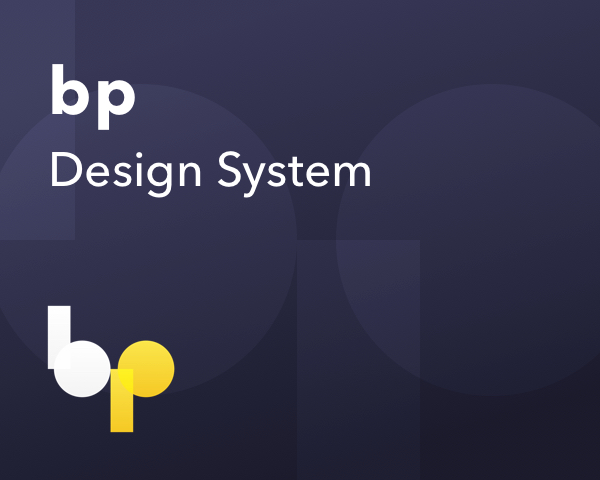
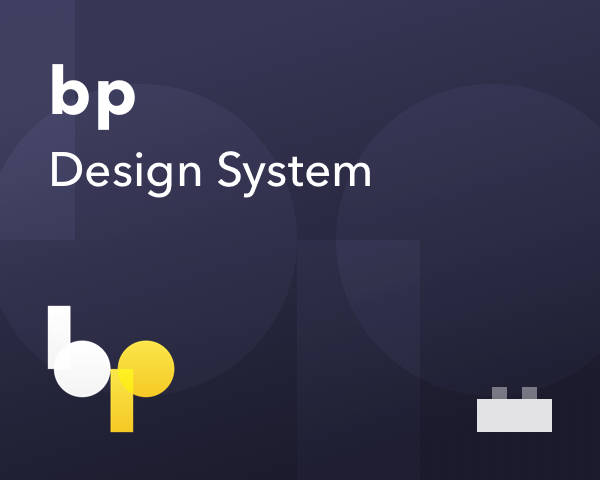
增加bp-design system  Layout条目

Changed region(s): [[0.78, 0.7812, 0.93, 0.9062]]

diff --git a/index.html b/index.html
@@ -1,161 +1,164 @@
 <!doctype html>
 <html lang="en">
 
-    <head>
-        <!-- Required meta tags -->
-        <meta charset="utf-8">
-        <meta name="viewport" content="width=device-width, initial-scale=1, shrink-to-fit=no">
+<head>
+    <!-- Required meta tags -->
+    <meta charset="utf-8">
+    <meta name="viewport" content="width=device-width, initial-scale=1, shrink-to-fit=no">
 
-        <!-- Bootstrap CSS -->
-        <link rel="stylesheet" href="https://stackpath.bootstrapcdn.com/bootstrap/4.3.1/css/bootstrap.min.css"
-            integrity="sha384-ggOyR0iXCbMQv3Xipma34MD+dH/1fQ784/j6cY/iJTQUOhcWr7x9JvoRxT2MZw1T" crossorigin="anonymous">
-        <link rel="stylesheet" href="./index.css">
-        <link rel="shortcut icon" href="./favicon.ico" type="image/x-icon">
-        <title>Pharbers Design</title>
-    </head>
+    <!-- Bootstrap CSS -->
+    <link rel="stylesheet" href="https://stackpath.bootstrapcdn.com/bootstrap/4.3.1/css/bootstrap.min.css"
+        integrity="sha384-ggOyR0iXCbMQv3Xipma34MD+dH/1fQ784/j6cY/iJTQUOhcWr7x9JvoRxT2MZw1T" crossorigin="anonymous">
+    <link rel="stylesheet" href="./index.css">
+    <link rel="shortcut icon" href="./favicon.ico" type="image/x-icon">
+    <title>Pharbers Design</title>
+</head>
 
-    <body>
-        <nav class="navbar navbar-expand-lg mb-4 navbar-light bg-light  justify-content-center">
-            <h1>Pharbers Design</h1>
-        </nav>
-        <section class="container mb-2">
-            <div class="card" style="width: 16rem;">
-                <img src="./public/img_thumbnails_ds.jpg" class="card-img-top" alt="components">
-                <div class="card-body">
-                    <h5 class="card-title">Components Design</h5>
-                    <p class="card-text">主要展示 pharbers company 的内部组件设计等，包含基础的颜色/字体/大小等，同时也有数据展示如表格等的组件。适用于 pharbers 项目.
-                    </p>
-                    <!-- <a href="#" class="btn btn-primary">查看</a> -->
-                    <div class="btn-group">
-                        <button type="button" class="btn btn-primary dropdown-toggle" data-toggle="dropdown"
-                            aria-haspopup="true" aria-expanded="false">
-                            查看
-                        </button>
-                        <div class="dropdown-menu">
-                            <a class="dropdown-item" href="./bp Design System/bpDS_General/index.html">General</a>
-                            <div class="dropdown-divider"></div>
-                            <a class="dropdown-item"
-                                href="./bp Design System/bpDS_Navigiation/index.html">Navigiation</a>
-                            <div class="dropdown-divider"></div>
-                            <a class="dropdown-item"
-                                href="./bp Design System/bpDS_Foundations/index.html">Foundations</a>
-                            <div class="dropdown-divider"></div>
-                            <a class="dropdown-item" href="./bp Design System/bpDS_Feedback/index.html">Feedback</a>
-                            <div class="dropdown-divider"></div>
-                            <a class="dropdown-item" href="./bp Design System/bpDS_DataEntry/index.html">DataEntry</a>
-                            <div class="dropdown-divider"></div>
-                            <a class="dropdown-item"
-                                href="./bp Design System/bpDS_DataDisplay/index.html">DataDisplay</a>
-                            <div class="dropdown-divider"></div>
-                            <a class="dropdown-item"
-                                href="./bp Design System/bpDS_Design Guideline/index.html">Guideline</a>
-                        </div>
+<body>
+    <nav class="navbar navbar-expand-lg mb-4 navbar-light bg-light  justify-content-center">
+        <h1>Pharbers Design</h1>
+    </nav>
+    <section class="container mb-2">
+        <div class="card" style="width: 16rem;">
+            <img src="./public/img_thumbnails_ds.jpg" class="card-img-top" alt="components">
+            <div class="card-body">
+                <h5 class="card-title">Components Design</h5>
+                <p class="card-text">主要展示 pharbers company 的内部组件设计等，包含基础的颜色/字体/大小等，同时也有数据展示如表格等的组件。适用于 pharbers 项目.
+                </p>
+                <!-- <a href="#" class="btn btn-primary">查看</a> -->
+                <div class="btn-group">
+                    <button type="button" class="btn btn-primary dropdown-toggle" data-toggle="dropdown"
+                        aria-haspopup="true" aria-expanded="false">
+                        查看
+                    </button>
+                    <div class="dropdown-menu">
+                        <a class="dropdown-item"
+                            href="./bp Design System/bpDS_Design Guideline/index.html">Design Guideline</a>
+                        <div class="dropdown-divider"></div>
+                        <a class="dropdown-item" href="./bp Design System/bpDS_Layout/index.html">Layout</a>
+                        <div class="dropdown-divider"></div>
+                        <a class="dropdown-item" href="./bp Design System/bpDS_General/index.html">General</a>
+                        <div class="dropdown-divider"></div>
+                        <a class="dropdown-item" href="./bp Design System/bpDS_Foundations/index.html">Foundations</a>
+                        <div class="dropdown-divider"></div>
+                        <a class="dropdown-item" href="./bp Design System/bpDS_Navigiation/index.html">Navigiation</a>
+                        <div class="dropdown-divider"></div>
+
+
+
+                        <a class="dropdown-item" href="./bp Design System/bpDS_DataEntry/index.html">DataEntry</a>
+                        <div class="dropdown-divider"></div>
+                        <a class="dropdown-item" href="./bp Design System/bpDS_DataDisplay/index.html">DataDisplay</a>
+                        <div class="dropdown-divider"></div>
+                        <a class="dropdown-item" href="./bp Design System/bpDS_Feedback/index.html">Feedback</a>
+
                     </div>
                 </div>
             </div>
-            <div class="card" style="width: 16rem;">
-                <img src="./public/img_thumbnails_Tmist.jpg" class="card-img-top" alt="TMIST">
-                <div class="card-body">
-                    <h5 class="card-title">NEW TMIST Design</h5>
-                    <p class="card-text">Some description for TMIST design.</p>
-                    <a href="./New Tmist UI/index.html" class="btn btn-primary">查看</a>
-                </div>
+        </div>
+        <div class="card" style="width: 16rem;">
+            <img src="./public/img_thumbnails_Tmist.jpg" class="card-img-top" alt="TMIST">
+            <div class="card-body">
+                <h5 class="card-title">NEW TMIST Design</h5>
+                <p class="card-text">Some description for TMIST design.</p>
+                <a href="./New Tmist UI/index.html" class="btn btn-primary">查看</a>
             </div>
-            <div class="card" style="width: 16rem;">
-                <img src="./public/img_thumbnails_UCB.jpg" class="card-img-top" alt="ucb">
-                <div class="card-body">
-                    <h5 class="card-title">UCB Design</h5>
-                    <p class="card-text">Some description for UCB design.</p>
-                    <a href="./Tmist UCB UI/index.html" class="btn btn-primary">查看</a>
-                </div>
+        </div>
+        <div class="card" style="width: 16rem;">
+            <img src="./public/img_thumbnails_UCB.jpg" class="card-img-top" alt="ucb">
+            <div class="card-body">
+                <h5 class="card-title">UCB Design</h5>
+                <p class="card-text">Some description for UCB design.</p>
+                <a href="./Tmist UCB UI/index.html" class="btn btn-primary">查看</a>
             </div>
-            <div class="card" style="width: 16rem;">
-                <img src="./public/img_thumbnails_Upload.jpg" class="card-img-top" alt="ucb">
-                <div class="card-body">
-                    <h5 class="card-title">CHC Design</h5>
-                    <p class="card-text">文件上传下载项目.</p>
-                    <a href="./General UI/index.html" class="btn btn-primary">查看</a>
-                </div>
+        </div>
+        <div class="card" style="width: 16rem;">
+            <img src="./public/img_thumbnails_Upload.jpg" class="card-img-top" alt="ucb">
+            <div class="card-body">
+                <h5 class="card-title">CHC Design</h5>
+                <p class="card-text">文件上传下载项目.</p>
+                <a href="./General UI/index.html" class="btn btn-primary">查看</a>
             </div>
-            <div class="card" style="width: 16rem;">
-                <img src="./public/img_thumbnails_data viz.jpg" class="card-img-top" alt="bp Data Visualization">
-                <div class="card-body">
-                    <h5 class="card-title">bp Data Visualization</h5>
-                    <p class="card-text">图表设计规范</p>
-                    <a href="./bp Data Visualization/占位.md" class="btn btn-primary">查看</a>
-                </div>
+        </div>
+        <div class="card" style="width: 16rem;">
+            <img src="./public/img_thumbnails_data viz.jpg" class="card-img-top" alt="bp Data Visualization">
+            <div class="card-body">
+                <h5 class="card-title">bp Data Visualization</h5>
+                <p class="card-text">图表设计规范</p>
+                <a href="./bp Data Visualization/占位.md" class="btn btn-primary">查看</a>
             </div>
-        </section>
+        </div>
+    </section>
 
-        <nav class="navbar navbar-expand-lg mb-4 navbar-light justify-content-center">
-            <h1>Commits</h1>
-        </nav>
-        <section class="container commits">
-            <ul class="list-group"></ul>
-        </section>
-        <!-- Optional JavaScript -->
-        <!-- jQuery first, then Popper.js, then Bootstrap JS -->
-        <script src="https://code.jquery.com/jquery-3.3.1.slim.min.js"
-            integrity="sha384-q8i/X+965DzO0rT7abK41JStQIAqVgRVzpbzo5smXKp4YfRvH+8abtTE1Pi6jizo"
-            crossorigin="anonymous"></script>
-        <script src="https://cdnjs.cloudflare.com/ajax/libs/popper.js/1.14.7/umd/popper.min.js"
-            integrity="sha384-UO2eT0CpHqdSJQ6hJty5KVphtPhzWj9WO1clHTMGa3JDZwrnQq4sF86dIHNDz0W1"
-            crossorigin="anonymous"></script>
-        <script src="https://stackpath.bootstrapcdn.com/bootstrap/4.3.1/js/bootstrap.min.js"
-            integrity="sha384-JjSmVgyd0p3pXB1rRibZUAYoIIy6OrQ6VrjIEaFf/nJGzIxFDsf4x0xIM+B07jRM"
-            crossorigin="anonymous"></script>
-        <script>
-            let apiURL = 'https://api.github.com/repos/PharbersDeveloper/pharbers-design/commits?per_page=7&sha=master';
+    <nav class="navbar navbar-expand-lg mb-4 navbar-light justify-content-center">
+        <h1>Commits</h1>
+    </nav>
+    <section class="container commits">
+        <ul class="list-group"></ul>
+    </section>
+    <!-- Optional JavaScript -->
+    <!-- jQuery first, then Popper.js, then Bootstrap JS -->
+    <script src="https://code.jquery.com/jquery-3.3.1.slim.min.js"
+        integrity="sha384-q8i/X+965DzO0rT7abK41JStQIAqVgRVzpbzo5smXKp4YfRvH+8abtTE1Pi6jizo"
+        crossorigin="anonymous"></script>
+    <script src="https://cdnjs.cloudflare.com/ajax/libs/popper.js/1.14.7/umd/popper.min.js"
+        integrity="sha384-UO2eT0CpHqdSJQ6hJty5KVphtPhzWj9WO1clHTMGa3JDZwrnQq4sF86dIHNDz0W1"
+        crossorigin="anonymous"></script>
+    <script src="https://stackpath.bootstrapcdn.com/bootstrap/4.3.1/js/bootstrap.min.js"
+        integrity="sha384-JjSmVgyd0p3pXB1rRibZUAYoIIy6OrQ6VrjIEaFf/nJGzIxFDsf4x0xIM+B07jRM"
+        crossorigin="anonymous"></script>
+    <script>
+        let apiURL = 'https://api.github.com/repos/PharbersDeveloper/pharbers-design/commits?per_page=7&sha=master';
 
-            let fetchData = function (root) {
-                var xhr = new XMLHttpRequest()
-                var self = this
-                let commits = []
-                xhr.open('GET', apiURL)
-                xhr.onload = function () {
-                    commits = JSON.parse(xhr.responseText)
-                    for (let i = 0, len = commits.length; i < len; i++) {
-                        showInDom(root, commits[i])
-                    }
-                    console.log(commits)
-                    showInDom(root)
+        let fetchData = function (root) {
+            var xhr = new XMLHttpRequest()
+            var self = this
+            let commits = []
+            xhr.open('GET', apiURL)
+            xhr.onload = function () {
+                commits = JSON.parse(xhr.responseText)
+                for (let i = 0, len = commits.length; i < len; i++) {
+                    showInDom(root, commits[i])
                 }
-                xhr.send()
+                console.log(commits)
+                showInDom(root)
             }
-            let formatDate = function(date) {
-                let Y = date.getFullYear() + '-',
-                    M = (date.getMonth() + 1 < 10 ? '0' + (date.getMonth() + 1) : date.getMonth() + 1) + '-',
-                    D = (date.getDate() < 10 ? `0${date.getDate()}` : date.getDate()) + ' ',
-                    h = date.getHours() + ':',
-                    m = date.getMinutes() + ':',
-                    s = date.getSeconds()<10?`0${date.getSeconds()}`:date.getSeconds();
+            xhr.send()
+        }
+        let formatDate = function (date) {
+            let Y = date.getFullYear() + '-',
+                M = (date.getMonth() + 1 < 10 ? '0' + (date.getMonth() + 1) : date.getMonth() + 1) + '-',
+                D = (date.getDate() < 10 ? `0${date.getDate()}` : date.getDate()) + ' ',
+                h = date.getHours() + ':',
+                m = date.getMinutes() + ':',
+                s = date.getSeconds() < 10 ? `0${date.getSeconds()}` : date.getSeconds();
 
-                // 输出结果：yyyy-mm-dd hh:mm:ss
-                return Y + M + D + h + m + s;
-                // return Y + M + D;
-            }
+            // 输出结果：yyyy-mm-dd hh:mm:ss
+            return Y + M + D + h + m + s;
+            // return Y + M + D;
+        }
 
-            let showInDom = function (root, commit) {
-                // let node = document.createElement('li');
-                // node.setAttribute('class', 'list-group-item');
-                // node.innerHTML = `<span>${commit.commit.author.name}</span><span>${commit.commit.message}</span><span>${commit.commit.author.date}</span>`;
-                // root.append(node);
-                let node = document.createElement('div'),
-                    date = new Date(commit.commit.author.date),
-                    dateString = formatDate(date);
+        let showInDom = function (root, commit) {
+            // let node = document.createElement('li');
+            // node.setAttribute('class', 'list-group-item');
+            // node.innerHTML = `<span>${commit.commit.author.name}</span><span>${commit.commit.message}</span><span>${commit.commit.author.date}</span>`;
+            // root.append(node);
+            let node = document.createElement('div'),
+                date = new Date(commit.commit.author.date),
+                dateString = formatDate(date);
 
-                node.setAttribute('class', 'media mb-2');
-                node.innerHTML = `<img src=${commit.author.avatar_url} width=64 height=64 class="mr-3" alt=${commit.author.login}>
+            node.setAttribute('class', 'media mb-2');
+            node.innerHTML = `<img src=${commit.author.avatar_url} width=64 height=64 class="mr-3" alt=${commit.author.login}>
                     <div class="media-body">
                         <h5 class="mt-0">${commit.commit.author.name}   ${dateString}</h5>
                         ${commit.commit.message}
                     </div>`
-                root.append(node);
+            root.append(node);
 
-            };
-            let root = $('.list-group')[0];
-            fetchData(root);
-        </script>
-    </body>
+        };
+        let root = $('.list-group')[0];
+        fetchData(root);
+    </script>
+</body>
 
 </html>
